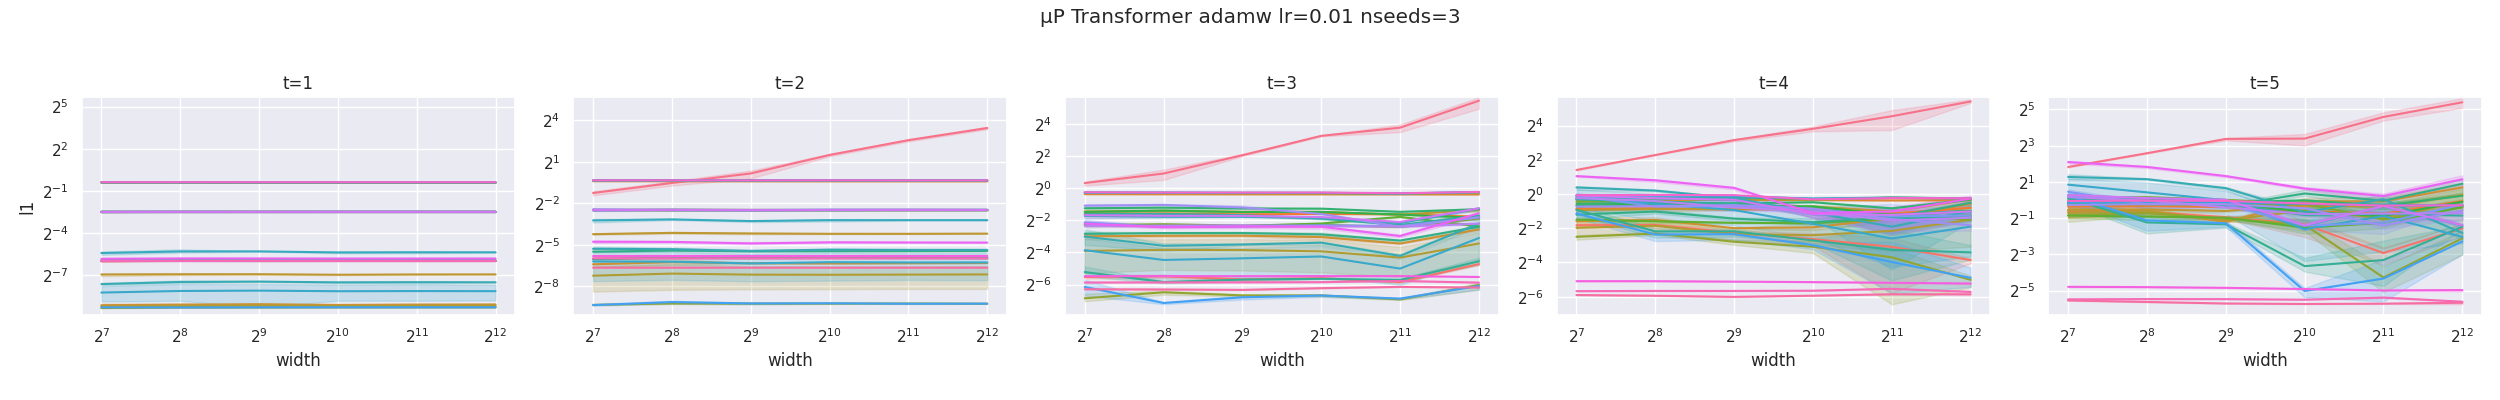
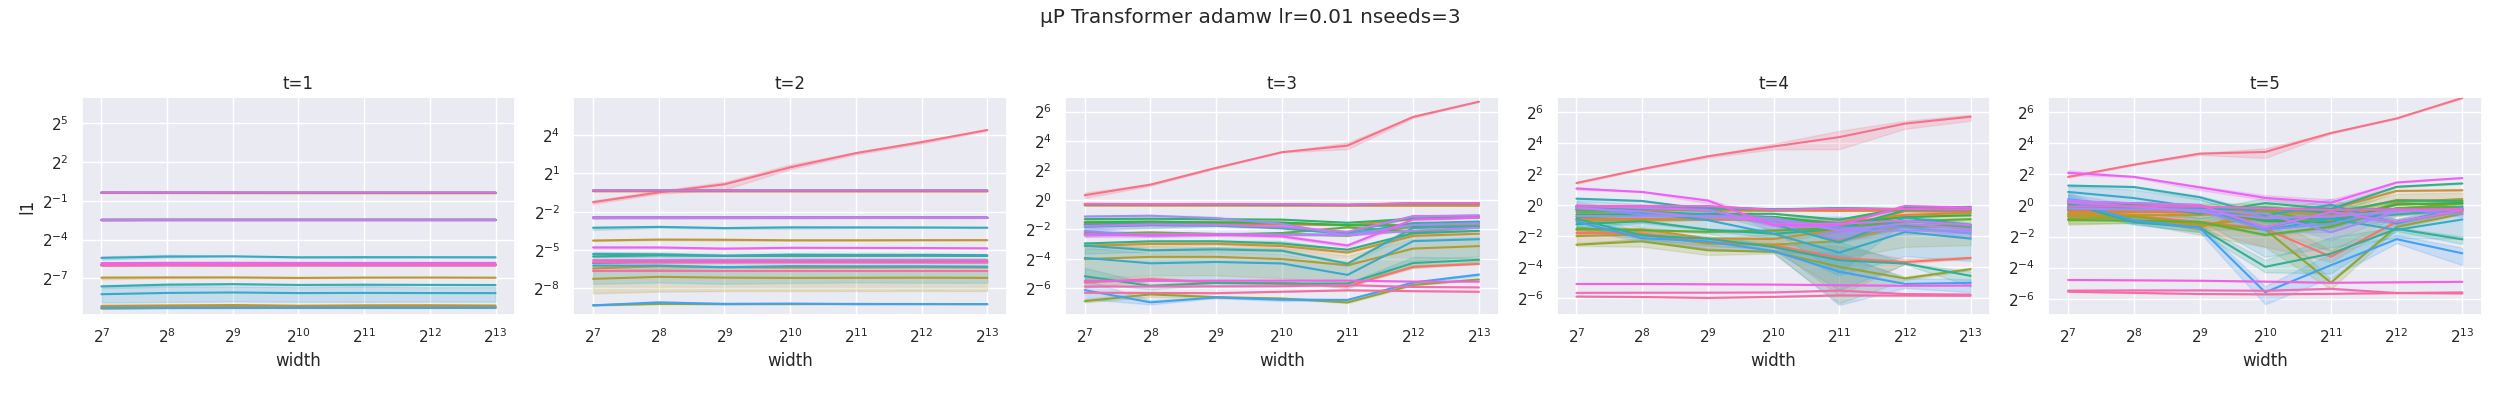
smaller bs, larger model

diff --git a/olmo/scaling/mup_coord_check.py b/olmo/scaling/mup_coord_check.py
@@ -95,7 +95,7 @@ def coord_check(mup, lr, optimizer, batch_size, nsteps, nseeds, args, plotdir=""
         return f
 
     optimizer = optimizer.replace("mu", "")
-    widths = 2 ** np.arange(7, 13)
+    widths = 2 ** np.arange(7, 14)
     models = {w: gen(w, standparam=not mup) for w in widths}
 
     train_config = TrainConfig.load(args.config_path)
